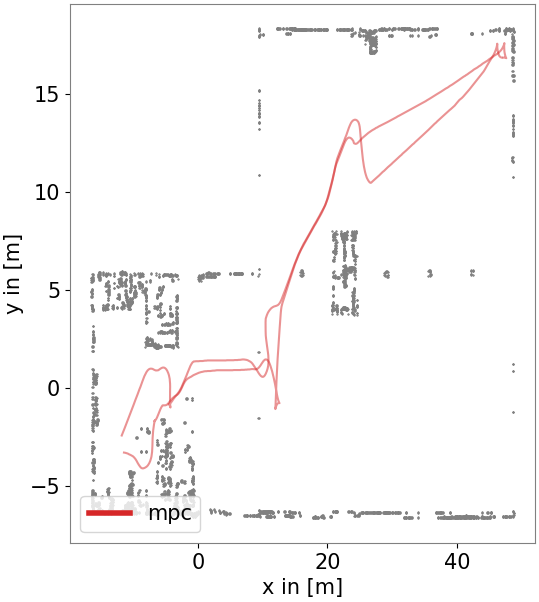
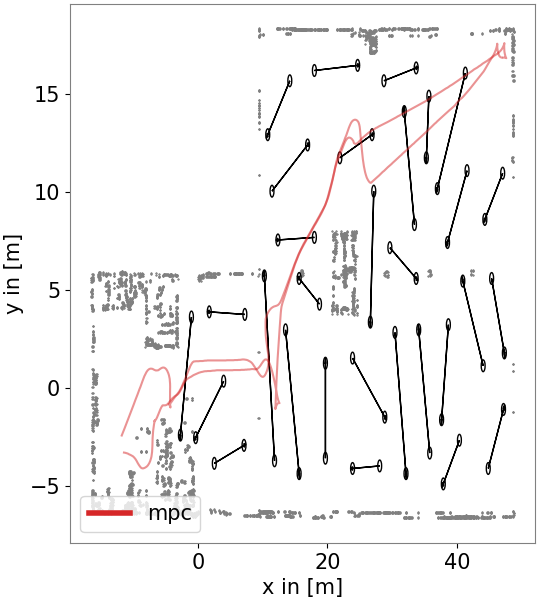
map origin automated

diff --git a/arena_navigation/arena_local_planner/evaluation/scripts/scenario_eval.py b/arena_navigation/arena_local_planner/evaluation/scripts/scenario_eval.py
@@ -96,7 +96,20 @@ class newBag():
         if plot_sm:
             sm_csv = self.bag.message_by_topic(self.topic_sm)
             df_sm  = pd.read_csv(sm_csv, error_bad_lines=False)
-            #plt.scatter(sm[1], sm[0],s = 0.2 , c = "grey")
+
+            # get origin from map yml
+            map = (self.file_name.split("_")[0])
+            # remmeber curr dir
+            remember_path = os.path.abspath(os.curdir)
+            # change to map dir
+            os.chdir("../../../../simulator_setup/maps/"+map)
+            path_map = os.path.abspath(os.curdir)
+            # move back to eval path
+            os.chdir(remember_path)
+            with open(path_map+"/map.yaml", "r") as ymlfile:
+                map_yml = yaml.safe_load(ymlfile)
+            orig_x = map_yml["origin"][0]
+            orig_y = map_yml["origin"][1]
 
             for i in range(len(df_sm)): 
                 df_str = (df_sm.loc[i,"markers"])
@@ -113,8 +126,7 @@ class newBag():
                 # print((df_str))
                 points_x = []
                 points_y = []
-                orig_x = 0#-16.600000
-                orig_y = 0#-6.650000
+
                 for p in points:
                     pxy = p.split("\n")
                     try:
@@ -126,7 +138,11 @@ class newBag():
                         print(e)
 
             
+            img = plt.imread(path_map+"/map.png")
+            # plt.imshow(img, extent=[-16, -50, -6, 17])
             plt.scatter(points_x, points_y, s = 0.2, c = "grey")
+
+            # print(self.csv_dir)
 
         odom_csv = self.bag.message_by_topic(self.odom_topic)
         df_odom  = pd.read_csv(odom_csv, error_bad_lines=False)
@@ -355,8 +371,11 @@ class newBag():
 
         for run_a in xya:
             for col_xy in run_a:
-                all_cols_x.append(-col_xy[1])
-                all_cols_y.append(col_xy[0])
+                #all_cols_x.append(-col_xy[1])
+                #all_cols_y.append(col_xy[0])
+
+                all_cols_x.append(col_xy[0])
+                all_cols_y.append(col_xy[1])
 
                 if plt_cfg["plot_collisions"]:
                     circle = plt.Circle((-col_xy[1], col_xy[0]), 0.3, color=clr, fill = True, alpha = 0.6)
@@ -788,7 +807,7 @@ def fancy_print(msg,success):
 def plot_arrow(start,end):
     global ax
     # ax.arrow(-start[1], start[0], -end[1], end[0], head_width=0.05, head_length=0.1, fc='k', ec='k')
-    plt.arrow(-start[1], start[0], -end[1], end[0],  
+    plt.arrow(start[0], start[1], end[0], end[1],  
         head_width = 0.2, 
         width = 0, 
         ec = "black",
@@ -798,7 +817,7 @@ def plot_arrow(start,end):
 def plot_dyn_obst(ob_xy):
     global ax
 
-    circle = plt.Circle((-ob_xy[1], ob_xy[0]), 0.3, color="black", fill = False, alpha = 1)
+    circle = plt.Circle((ob_xy[0], ob_xy[1]), 0.3, color="black", fill = False, alpha = 1)
     ax.add_patch(circle)
 
 def read_scn_file(map, ob):
